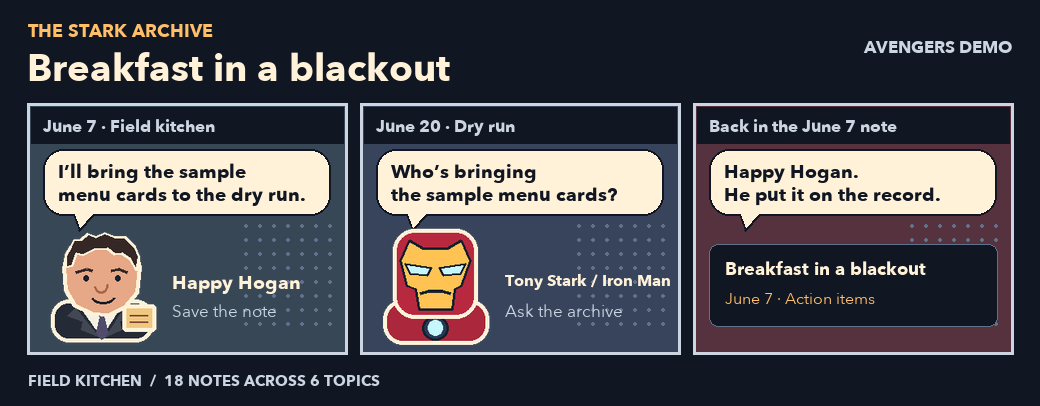
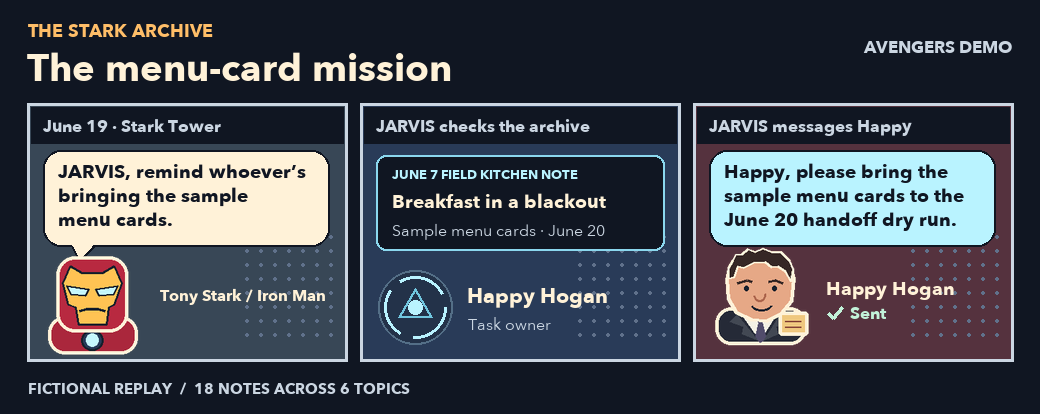
Show how agents act on long-term memory

diff --git a/src/memory_pa/cli.py b/src/memory_pa/cli.py
@@ -4,6 +4,7 @@ import argparse
 import getpass
 import sys
 import warnings
+from datetime import date
 from importlib.metadata import version
 from importlib.resources import files
 from pathlib import Path
@@ -144,12 +145,21 @@ def _demo_files(directory, prefix=""):
 
 def _demo(args):
     workspace = Workspace(dict(_demo_files(files("memory_pa.examples").joinpath("workspace"))))
-    note = "topics/field-kitchen/breakfast-in-a-blackout-2032-06-07.md"
+    replay_date = date(2032, 6, 19)
+    # The replay takes place before the note that records completion.
     hits = [
         hit for hit in workspace.search("menu cards", 12)
-        if hit["note"] == note and hit["section"] == "action-items"
+        if hit["section"] == "action-items" and hit["date"] and hit["date"] <= replay_date.isoformat()
     ]
+    note = hits[0]["note"]
     evidence = workspace.show(note, "source-text").decode("utf-8")
+    action = workspace.by_path[note]["actions"][0]
+    recipient = action["owner"]
+    due = date.fromisoformat(action["due"])
+    message = (
+        f"{recipient.split()[0]}, please bring the sample menu cards "
+        f"to the {due:%B} {due.day} handoff dry run."
+    )
     _output(
         args,
         {
@@ -158,13 +168,18 @@ def _demo(args):
             "note_count": len(workspace.sources),
             "results": hits,
             "source_text": evidence,
+            "reminder_preview": {"recipient": recipient, "message": message},
         },
         [
             "Explore the Stark Archive, a fictional Avengers dataset.",
             f"Loaded {len(workspace.sources)} notes.",
             "",
-            "Who will bring sample menu cards to the handoff dry run?",
+            f"{replay_date:%B} {replay_date.day}, {replay_date.year} · Fictional replay",
+            "Tony · JARVIS, remind whoever’s bringing the sample menu cards.",
             *(f"Open action · {hit['text'].split(' [act-', 1)[0]}" for hit in hits),
+            "",
+            f"Reminder preview from JARVIS · To {recipient}",
+            message,
             "",
             f"Opened {note}#source-text",
             evidence,

diff --git a/tests/test_cli.py b/tests/test_cli.py
@@ -60,7 +60,17 @@ class CLITests(unittest.TestCase):
         self.assertIn("Loaded 18 notes", output)
         self.assertIn("Happy Hogan", output)
         self.assertIn("Open action", output)
+        self.assertIn("June 19, 2032 · Fictional replay", output)
+        self.assertIn("Reminder preview from JARVIS · To Happy Hogan", output)
         self.assertIn("#source-text", output)
+        demo = json.loads(self.call("demo", "--json"))
+        self.assertEqual(demo["results"][0]["date"], "2032-06-07")
+        preview = demo["reminder_preview"]
+        self.assertEqual(preview["recipient"], "Happy Hogan")
+        self.assertEqual(
+            preview["message"],
+            "Happy, please bring the sample menu cards to the June 20 handoff dry run.",
+        )
         self.assertFalse(self.store.exists())
         self.assertFalse(self.settings.exists())
 

diff --git a/README.md b/README.md
@@ -1,15 +1,19 @@
 # memory-pa
 
-Save a note with your AI assistant. Later, ask a question about it and see the note behind the answer. You choose where your notes live.
+**Power your agents with long-term memory.** Let an agent pick up a task in a new chat with the context it needs to act.
+
+Start with the assistant you already use and a folder on your computer. Search runs locally over plain Markdown and JSON, and memory-pa updates the topic index and summaries with each save. You can also use private GitHub or S3 for a workspace your agents can share.
+
+## From memory to action
+
+On June 19, Tony Stark says, “JARVIS, remind whoever’s bringing the sample menu cards.” JARVIS opens the June 7 field kitchen note, finds the assignment and due date, then messages Happy Hogan about the June 20 dry run.
 
 <picture>
   <source media="(prefers-reduced-motion: reduce)" srcset="docs/media/stark-archive-comic.png">
-  <img src="docs/media/save-ask-answer.gif" width="780" alt="Three-panel Stark Archive comic. Happy Hogan says he’ll bring the sample menu cards. Tony Stark asks who’s bringing them. Memory-pa answers Happy Hogan and opens the June 7 note.">
+  <img src="docs/media/save-ask-answer.gif" width="780" alt="Three-panel Stark Archive comic. Iron Man asks JARVIS to remind whoever is bringing the sample menu cards. JARVIS opens the June 7 note and finds Happy Hogan’s assignment. JARVIS sends Happy a reminder for the June 20 dry run.">
 </picture>
 
-[Read the source behind the comic](examples/workspace/topics/field-kitchen/breakfast-in-a-blackout-2032-06-07.md#source-text)
-
-The **Stark Archive** is the complete fictional Avengers demo, with 18 notes across six topics. [Browse the workspace](examples/workspace/index.md) · [Read the source notes and benchmark questions](benchmarks/stark-archive/README.md)
+memory-pa gives the agent the evidence. The agent uses its connected messaging tool for an authorized send. The fictional demo replays the lookup and previews the reminder. [Read the source note](examples/workspace/topics/field-kitchen/breakfast-in-a-blackout-2032-06-07.md#source-text) · [Browse the 18-note Stark Archive](examples/workspace/index.md)
 
 ## Start in chat
 
@@ -23,7 +27,7 @@ Follow the setup skill in https://github.com/anuj-pm-irl/memory-pa
 
 1. **Choose where to keep your notes.** Pick a folder on your computer, private GitHub, or private S3. A folder on your computer is the easiest place to start.
 2. **Let your assistant set it up.** Say yes to the steps you want it to do.
-3. **Explore the Avengers archive.** Say **“Run the demo with me.”** It loads the full archive and answers **“Who will bring sample menu cards to the handoff dry run?”**
+3. **Try the Avengers example.** Say **“Run the demo with me.”** It finds Happy’s assignment in the archive and previews the message JARVIS would send.
 
 If you need to sign in, your assistant will pause so you can do it yourself. If you need an API key, it will guide you to a hidden prompt in your own terminal. Close the screen showing the key and say **“Done.”**
 
@@ -35,13 +39,18 @@ Already use a note taker? Say **“Help me connect Pocket and try one note.”**
 
 ## How the memory map grows
 
-memory-pa keeps your original note and links what you want to remember back to it.
+memory-pa keeps the original text and links each dated note to its decisions, tasks, and the people or projects it mentions.
 
 <img src="docs/media/stark-archive-memory-map.png" width="780" alt="Stark Archive detective board. Red thread connects Breakfast in a blackout to the Red Hook delivery decision, Happy Hogan’s open task, and Sam Wilson’s call. Two notes from Tower Access and Roof Garden connect to the same James Rhodes sticker.">
 
-Follow the red thread from the field kitchen note to Happy Hogan’s open task, or from two different topics to James Rhodes. The board shows selected connections from the 18-note archive. [Field kitchen note](examples/workspace/topics/field-kitchen/breakfast-in-a-blackout-2032-06-07.md) · [Browse all six topics](examples/workspace/index.md)
+- **Facts and decisions.** The June 7 note records the decision to send 48 breakfast boxes to Red Hook and Sam Wilson’s plan to call ahead. The original wording stays available. [Field kitchen note](examples/workspace/topics/field-kitchen/breakfast-in-a-blackout-2032-06-07.md)
+- **Beliefs and uncertainty.** Keep interpretations attributed in the note or summary. JARVIS’s guess that Peter is tired of shared clipboards stays a guess in the source. [Workshop note](examples/workspace/topics/workshop/the-robot-earns-saturday-2032-06-29.md#source-text)
+- **Relationships and task history.** James Rhodes’s record connects notes from Tower Access and Roof Garden. When Happy shows the cards on June 20, that note closes the same task from June 7. [Follow the entity links](docs/format.md#how-the-memory-map-is-built) · [See the completed task](examples/workspace/topics/field-kitchen/the-card-in-the-red-sleeve-2032-06-20.md#action-items)
 
-[How memory-pa builds the map](docs/format.md#how-the-memory-map-is-built)
+## Recall benchmarks
+
+- **88.4% answer accuracy (442/500)** in a model-graded LongMemEval-S run with Codex and memory-pa. The agent opened and cited at least one expected source on **99.1% of answerable questions (466/470)**. [Method and results](docs/benchmarks.md)
+- **80.6% top-five hit rate (29/36)** for local search on answerable Stark Archive queries. A hit means a supporting note appeared among the first five results. [Stark Archive benchmark](benchmarks/stark-archive/README.md#benchmark-results)
 
 ## Update in chat
 

diff --git a/docs/media/README.md b/docs/media/README.md
@@ -1,7 +1,7 @@
 # README comic
 
-[Breakfast in a blackout](save-ask-answer.gif) tells the story in three panels. Happy promises to bring the sample cards, Tony asks who’s bringing them, and memory-pa opens the original June 7 note. The dialogue illustrates the workflow. [Still version](stark-archive-comic.png) · [Original note](../../examples/workspace/topics/field-kitchen/breakfast-in-a-blackout-2032-06-07.md#source-text)
+[The menu-card mission](save-ask-answer.gif) tells the story in three panels. Tony asks JARVIS to send a reminder, JARVIS checks the June 7 task, and Happy gets a message about the June 20 dry run. The dialogue and send are fictional. The assignment comes from the archive. [Still version](stark-archive-comic.png) · [Original note](../../examples/workspace/topics/field-kitchen/breakfast-in-a-blackout-2032-06-07.md#source-text)
 
 [The Stark Archive detective board](stark-archive-memory-map.png) uses pinned notes, character stickers, and red thread to show a selection of links. Happy Hogan and Sam Wilson connect to the field kitchen note. James Rhodes connects notes from Tower Access and Roof Garden. [Full Stark Archive](../../examples/workspace/index.md)
 
-The strip uses a classic newspaper-comic rhythm: setup, jump forward, payoff. The panel captions carry the time jump, the balloons carry the dialogue, and the final panel shows the evidence. Character cues come from Marvel references, with original drawings for this demo. [Peanuts strip archive](https://www.gocomics.com/peanuts) · [Marvel on Iron Man](https://www.marvel.com/articles/movies/iron-man-kevin-feige-jon-favreau-15-anniversary-interview) · [Marvel on Sam Wilson](https://www.marvel.com/articles/comics/psych-ward-captain-america)
+The strip uses a classic newspaper-comic rhythm. The first panel sets up the request, the second shows the evidence, and the third delivers the message. Character cues come from Marvel references, with original drawings for this demo. [Peanuts strip archive](https://www.gocomics.com/peanuts) · [Marvel on Iron Man](https://www.marvel.com/articles/movies/iron-man-kevin-feige-jon-favreau-15-anniversary-interview) · [Marvel on Sam Wilson](https://www.marvel.com/articles/comics/psych-ward-captain-america)

diff --git a/docs/benchmarks.md b/docs/benchmarks.md
@@ -1,0 +1,18 @@
+# Recall benchmarks
+
+## LongMemEval-S with Codex
+
+Each of the 500 questions ran in a fresh, read-only Codex session with a local memory-pa workspace. One note per conversation session held its dated messages. The agent used `memory-pa search` to try and refine keywords and `memory-pa show` to open original source text. Citation scoring counted an expected source only when the tool trace showed that the agent had opened it. A separate model call graded each answer against the dataset reference. [LongMemEval project](https://github.com/xiaowu0162/LongMemEval) · [Cleaned dataset](https://huggingface.co/datasets/xiaowu0162/longmemeval-cleaned)
+
+| Measure | Result |
+| --- | ---: |
+| Correct answers, including abstentions | 442/500 (88.4%) |
+| Answerable questions with at least one expected source cited | 466/470 (99.1%) |
+| Answerable questions with every expected source cited | 369/470 (78.5%) |
+| Correct abstentions | 27/30 (90.0%) |
+
[1 lines of base64/hex data omitted]
+
+## Stark Archive local search
+
+This run passed each benchmark query directly to the CLI's local keyword search. At least one expected note appeared in the top five results for 29 of 36 answerable queries (80.6%). The 18-note fictional archive includes dated decisions, tasks that change status, and people who appear in more than one topic. [Queries, scoring, and results](../benchmarks/stark-archive/README.md#benchmark-results)

diff --git a/benchmarks/stark-archive/README.md b/benchmarks/stark-archive/README.md
@@ -6,7 +6,7 @@
 
 Tony Stark's alternate-universe archive follows one month at the tower after a neighborhood blackout. It contains 18 fictional source notes, six topics, and 17 linked people and projects. The scale target was one tenth of a 175-note reference archive by note count. The Stark notes contain 18.3 KiB of source text.
 
-Run `memory-pa demo` to explore this complete archive and see an answer backed by the field kitchen note. [Browse the generated workspace](../../examples/workspace/index.md)
+Run `memory-pa demo` to explore the archive and preview a reminder backed by the field kitchen note. [Browse the generated workspace](../../examples/workspace/index.md)
 
 ## Read the logs
 

diff --git a/docs/commands.md b/docs/commands.md
@@ -4,7 +4,7 @@ Use `memory-pa --help` and `memory-pa COMMAND --help` for the full options.
 
 ## Explore the Avengers archive
 
-Run `memory-pa demo` to load all 18 fictional notes and see the evidence behind Happy Hogan’s menu-card task. The demo uses its bundled workspace. [Browse all six topics](../examples/workspace/index.md)
+Run `memory-pa demo` to load all 18 fictional notes, open the evidence for Happy Hogan’s menu-card task, and preview JARVIS’s reminder. The demo uses its bundled workspace. [Browse all six topics](../examples/workspace/index.md)
 
 ## Update memory-pa
 
